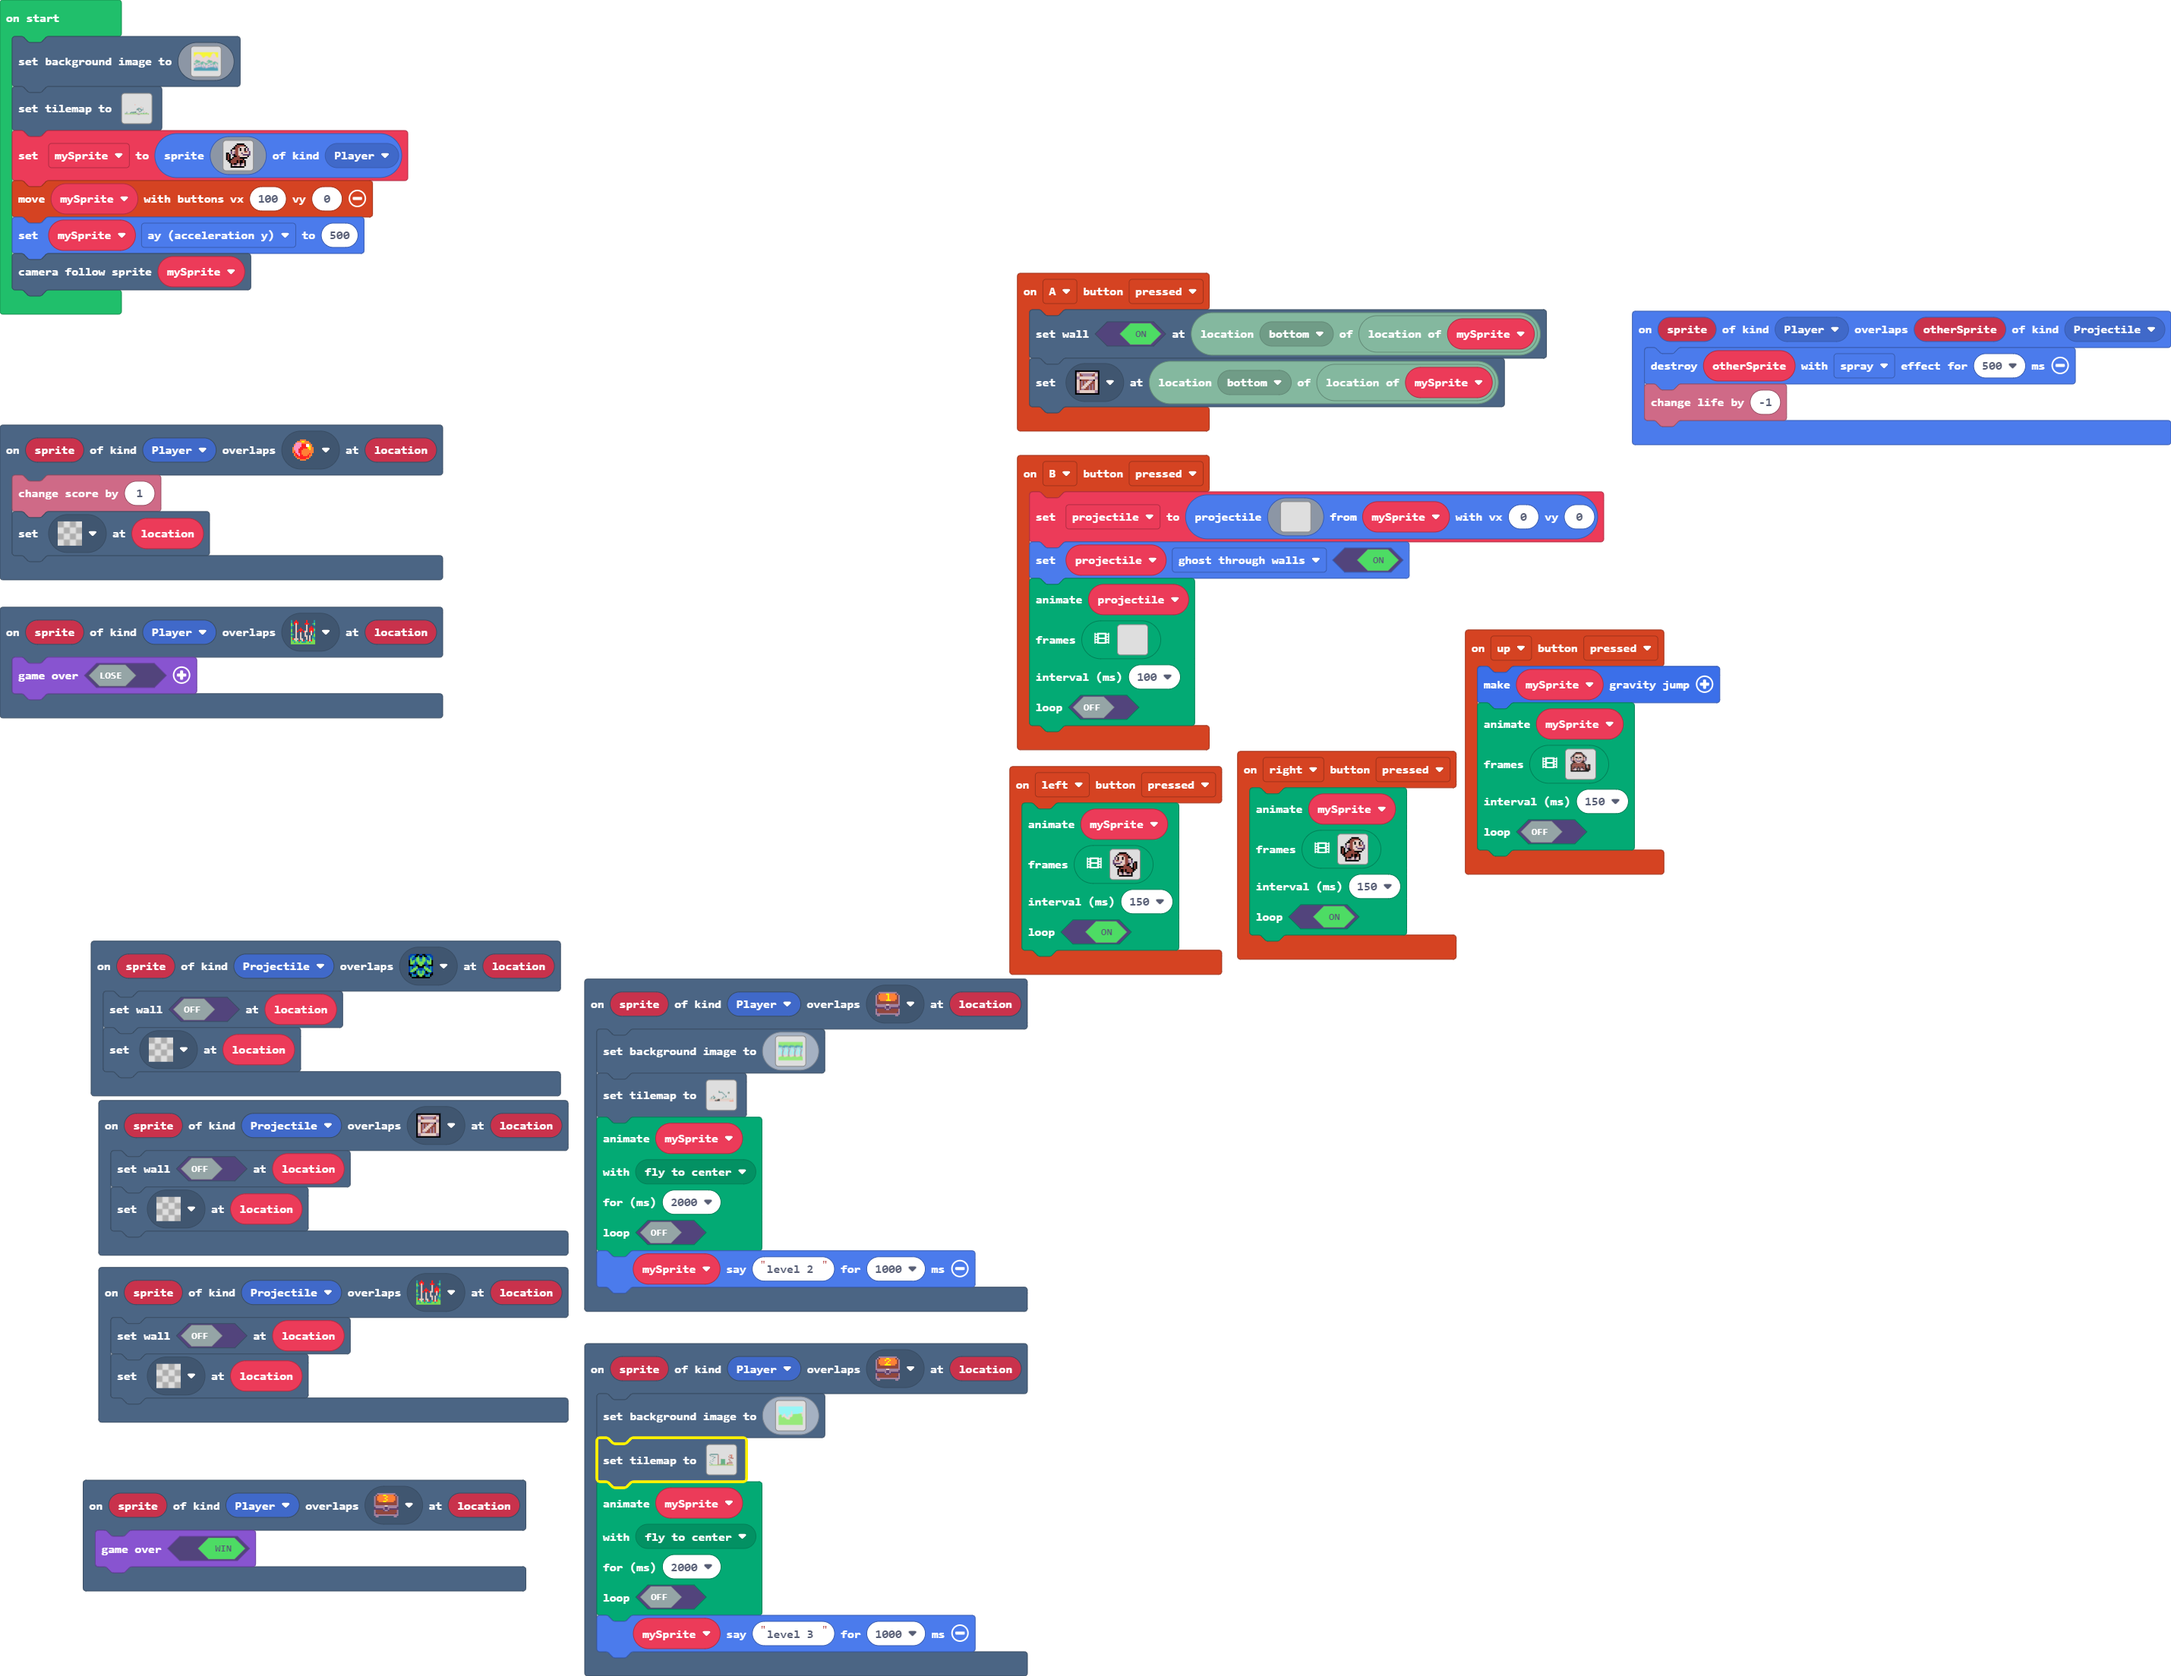
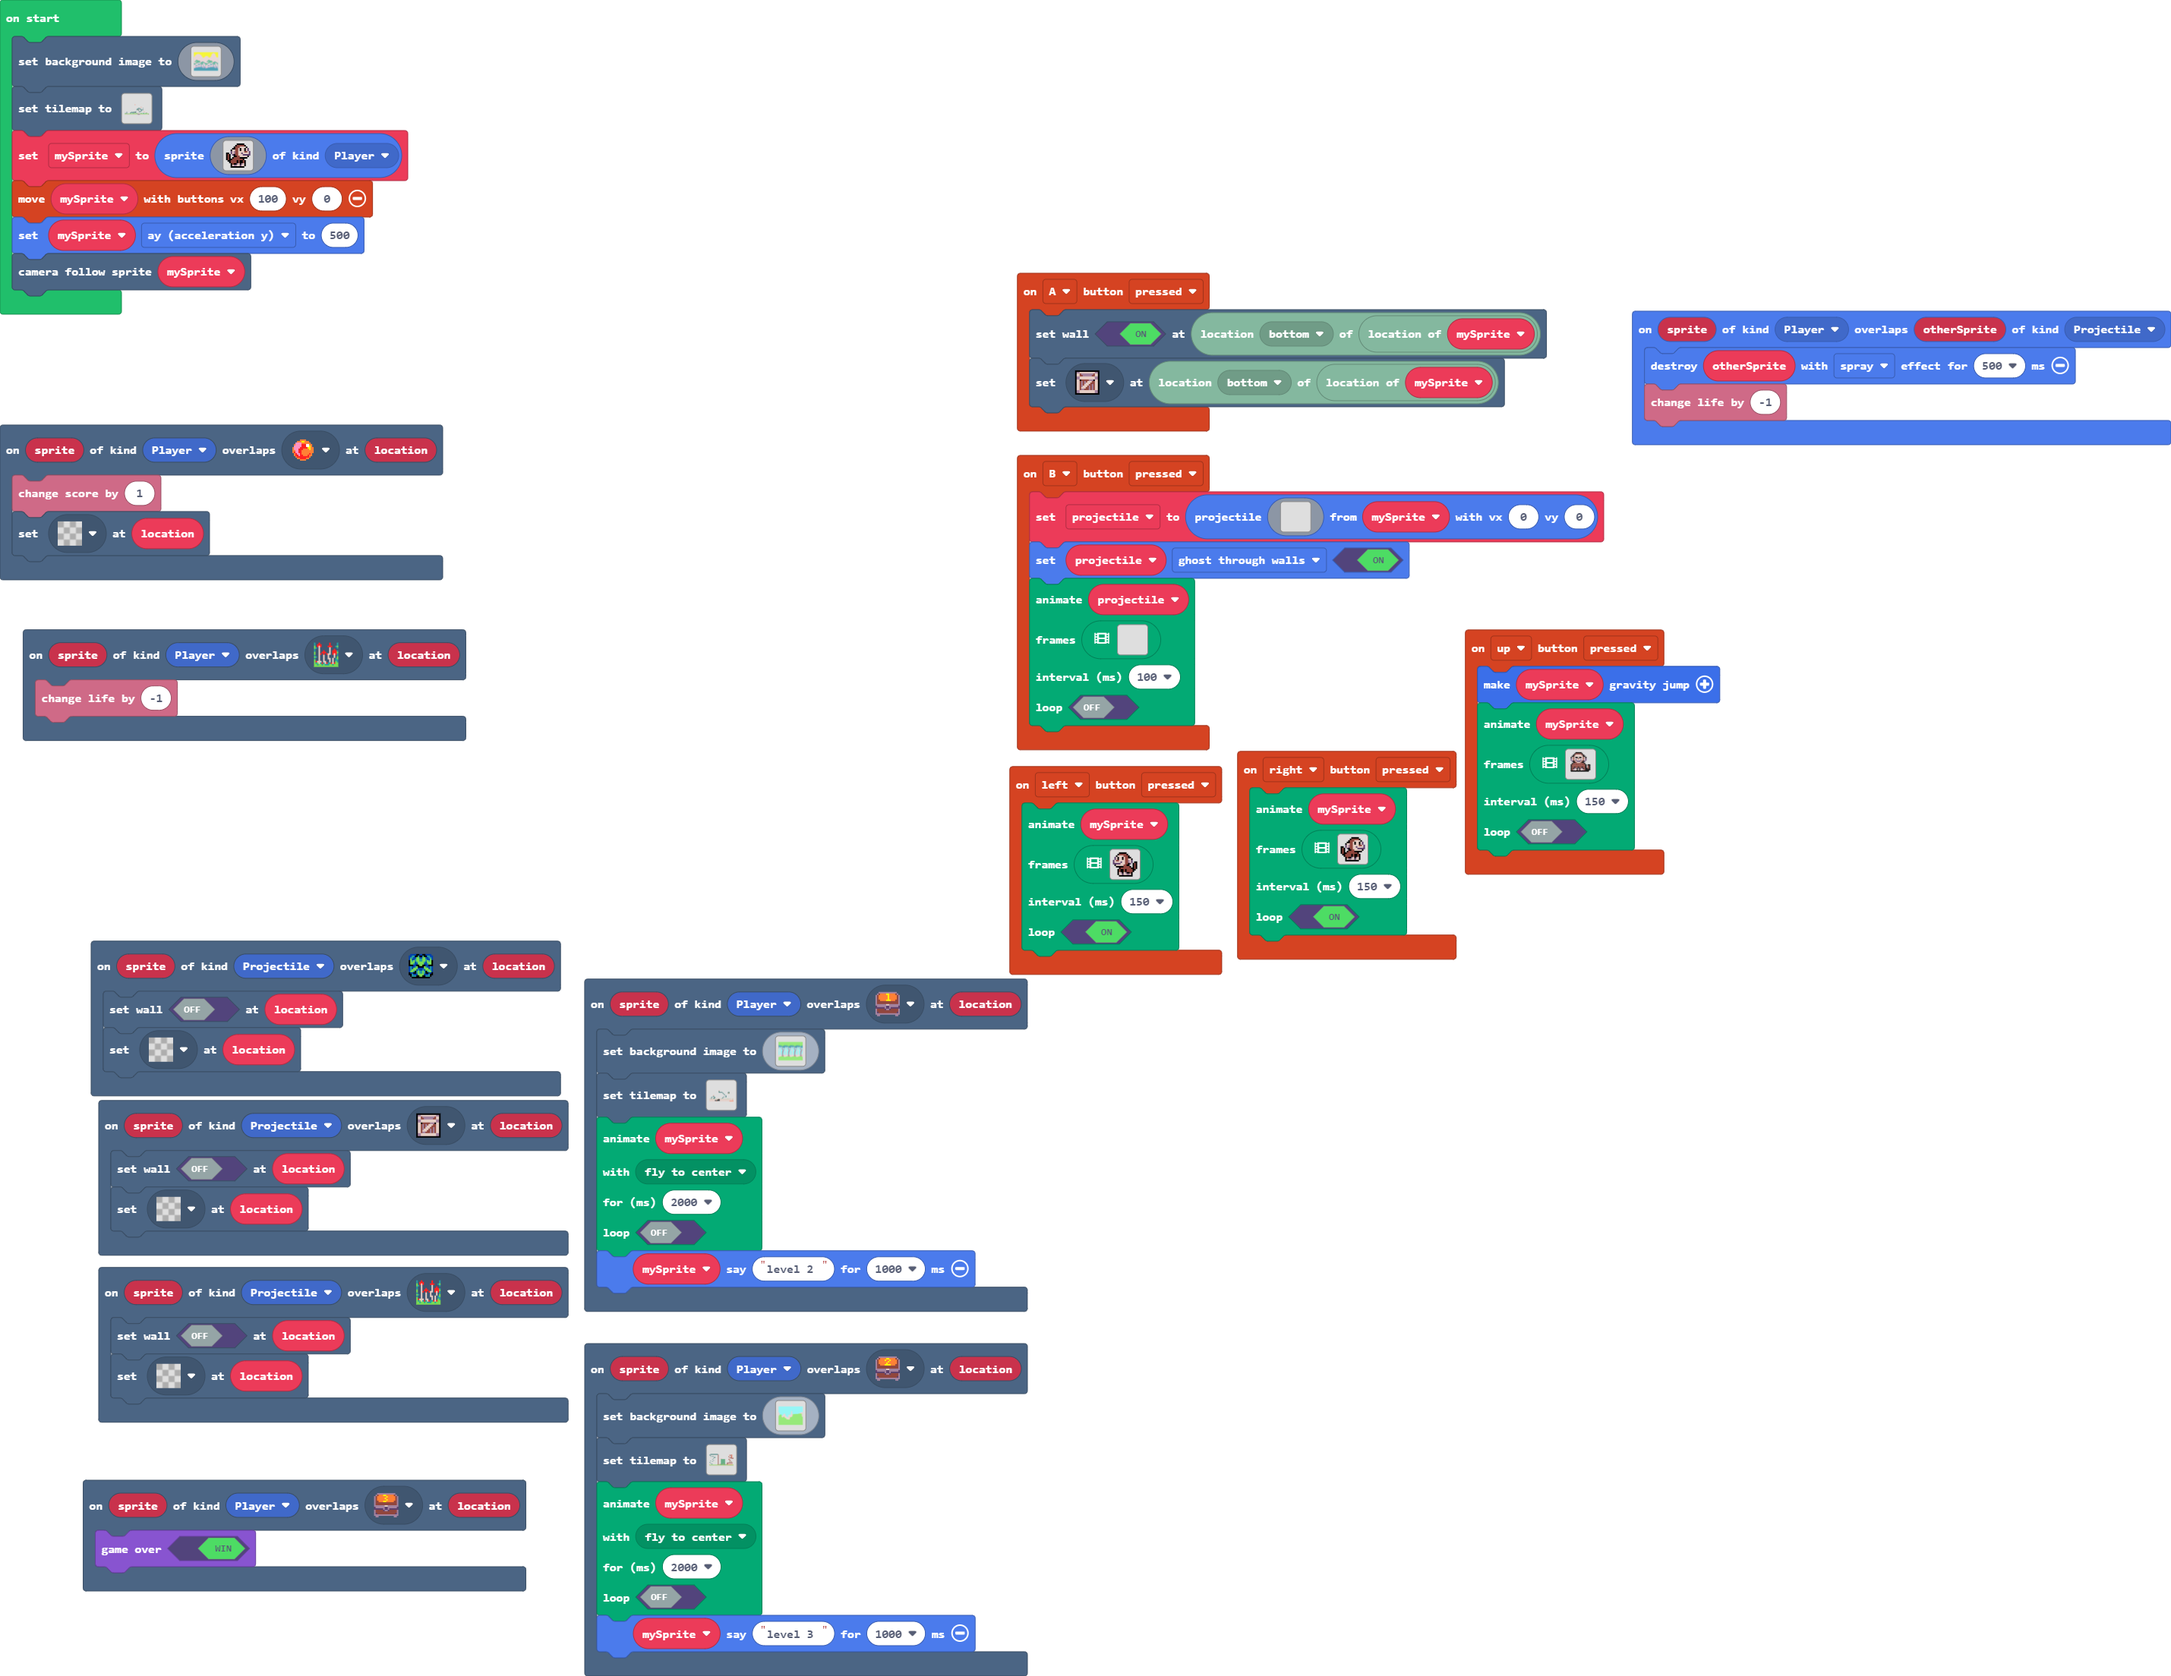
-1 when touch poison pit

Changed region(s): [[0.0, 0.3438, 0.2179, 0.4688]]

diff --git a/tilemap.g.ts b/tilemap.g.ts
@@ -506,6 +506,25 @@ namespace myTiles {
 . . . . . . . . . . . . . . . . 
 . . . . . . . . . . . . . . . . 
 `, [myTiles.transparency16], TileScale.Sixteen);
+            case "level8":
+            case "level8":return tiles.createTilemap(hex`1000100000000000000000000000000000000000000000000000000000000000000000000000000000000000000000000000000000000000000000000000000000000000000000000000000000000000000000000000000000000000000000000000000000000000000000000000000000000000000000000000000000000000000000000000000000000000000000000000000000000000000000000000000000000000000000000000000000000000000000000000000000000000000000000000000000000000000000000000000000000000000000000000000000000000000000000000000000000000000000000000000000000000000000000000000000000000`, img`
+. . . . . . . . . . . . . . . . 
+. . . . . . . . . . . . . . . . 
+. . . . . . . . . . . . . . . . 
+. . . . . . . . . . . . . . . . 
+. . . . . . . . . . . . . . . . 
+. . . . . . . . . . . . . . . . 
+. . . . . . . . . . . . . . . . 
+. . . . . . . . . . . . . . . . 
+. . . . . . . . . . . . . . . . 
+. . . . . . . . . . . . . . . . 
+. . . . . . . . . . . . . . . . 
+. . . . . . . . . . . . . . . . 
+. . . . . . . . . . . . . . . . 
+. . . . . . . . . . . . . . . . 
+. . . . . . . . . . . . . . . . 
+. . . . . . . . . . . . . . . . 
+`, [myTiles.transparency16], TileScale.Sixteen);
         }
         return null;
     })

diff --git a/main.ts b/main.ts
@@ -217,7 +217,7 @@ scene.onOverlapTile(SpriteKind.Player, assets.tile`chest0`, function (sprite, lo
     game.gameOver(true)
 })
 scene.onOverlapTile(SpriteKind.Player, assets.tile`poison pit`, function (sprite, location) {
-    game.over(false)
+    info.changeLifeBy(-1)
 })
 scene.onOverlapTile(SpriteKind.Projectile, assets.tile`bounce`, function (sprite, location) {
     tiles.setWallAt(location, false)
